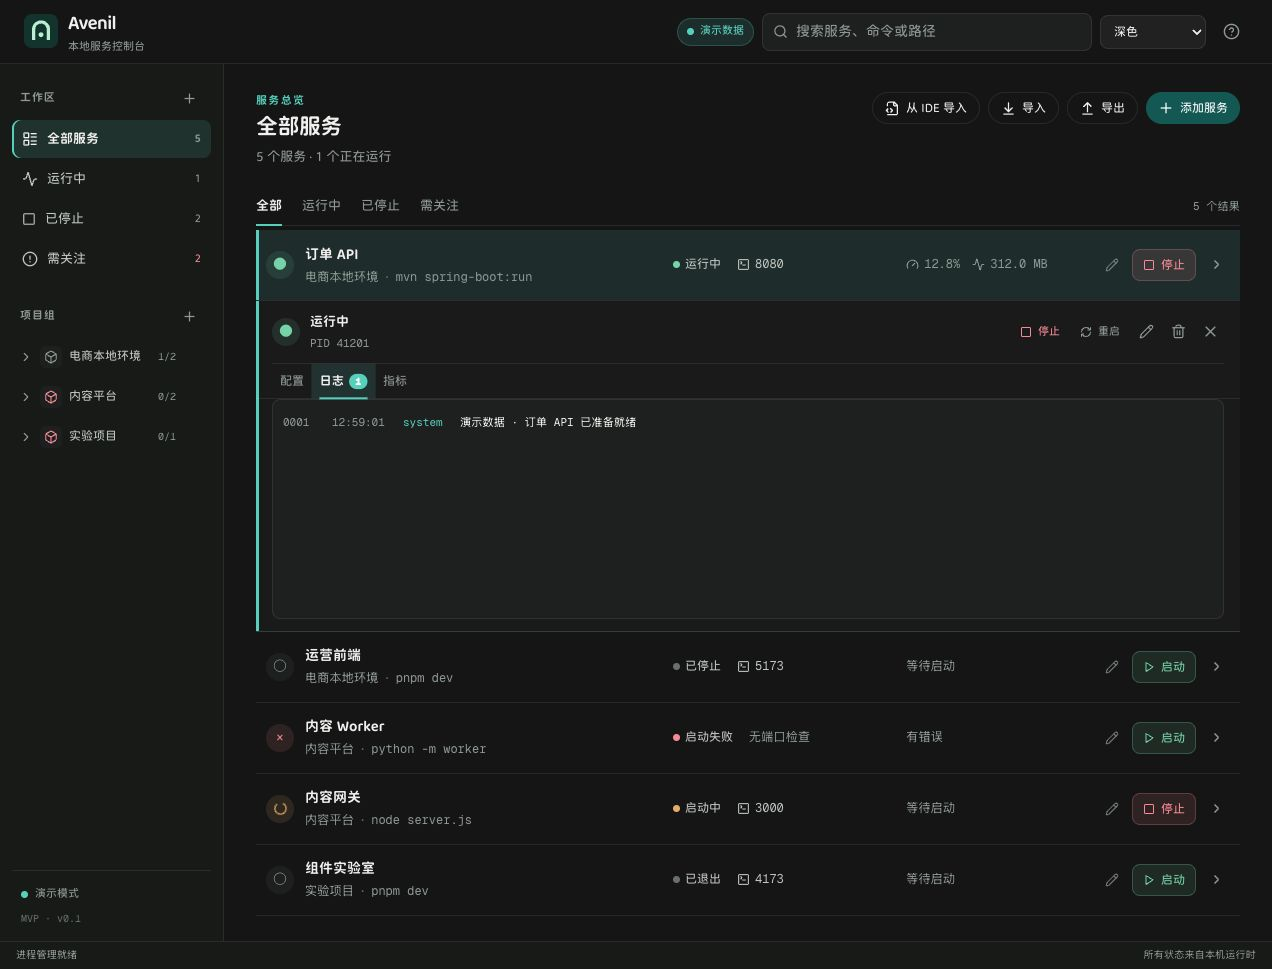
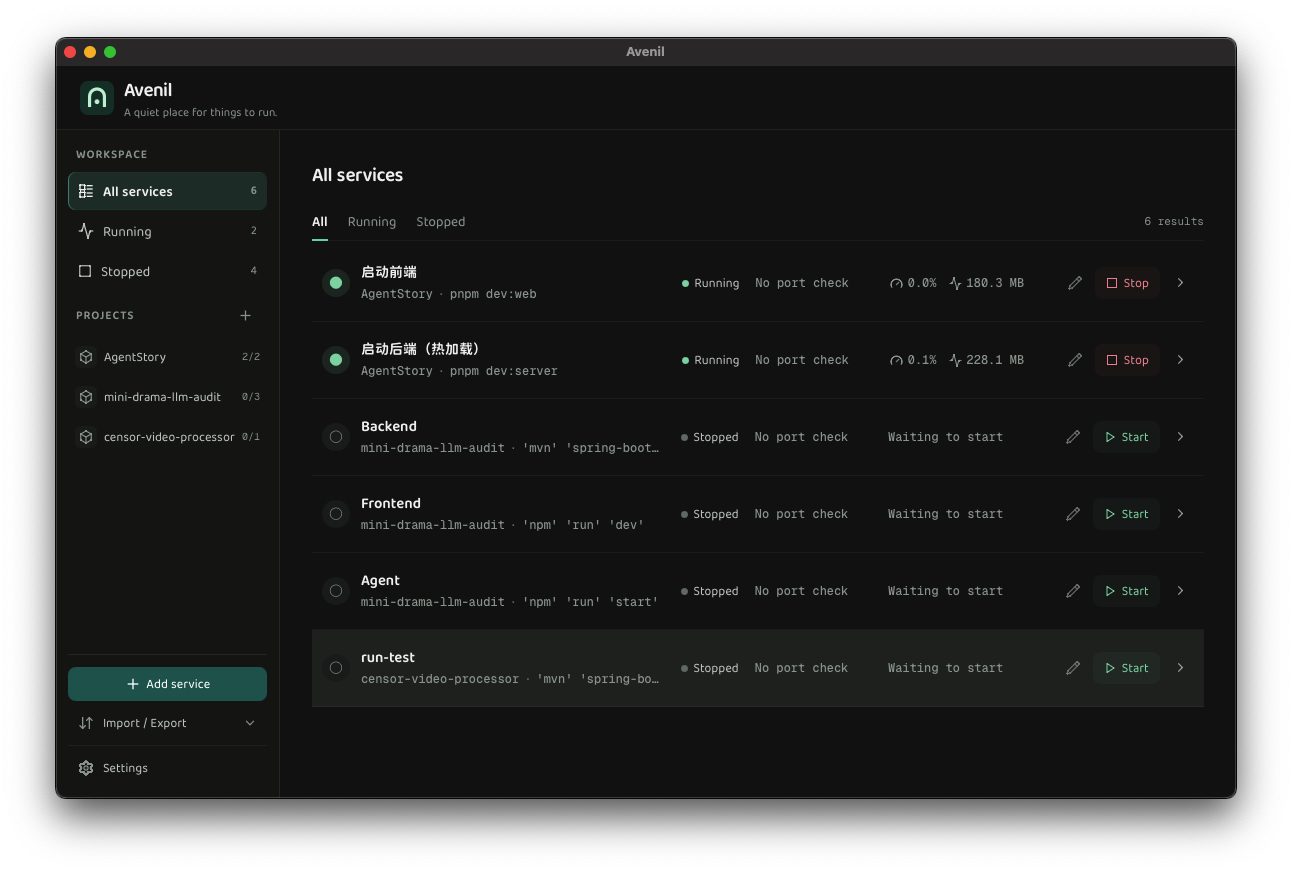
docs(product): clarify local service manager workflow
Clarify Avenil's native macOS local development service manager positioning, supported workflow boundaries, and MIT licensing in the English and Chinese product documentation.\n\nAdd practical guides for managing grouped services, running common Node/Python/Java/Rust commands, and importing VS Code, Cursor, and JetBrains run configurations. Refresh navigation, screenshots, and HTML metadata while leaving application runtime behavior, persistence, and process lifecycle unchanged.\n\nMain chain: README and HTML entry points -> product positioning and navigation -> user guides -> local service setup. No storage, downstream service, or runtime boundary changed.

diff --git a/index.html b/index.html
@@ -5,8 +5,8 @@
     <meta name="viewport" content="width=device-width, initial-scale=1.0" />
     <meta name="theme-color" content="#ffffff" />
     <link rel="icon" type="image/svg+xml" href="/brand/favicon.svg" />
-    <meta name="description" content="Avenil — A quiet place for things to run. Manage local services, logs, and runtime state on macOS." />
-    <title>Avenil · Local Service Console</title>
+    <meta name="description" content="Avenil is a native macOS local development service manager for running, grouping, and monitoring dev servers, logs, ports, and IDE run configurations." />
+    <title>Avenil · Native macOS Local Development Service Manager</title>
     <script>
       (() => {
         try {

diff --git a/README.md b/README.md
@@ -1,10 +1,14 @@
+# Avenil — Native macOS Local Development Service Manager
+
+Avenil is a native macOS app for running and monitoring local development services. Group your dev servers, start and stop them together, inspect logs and resource usage, check local ports, and import run configurations from VS Code, Cursor, and JetBrains.
+
 <p align="center">
-  <img src="docs/assets/banner.svg" alt="Avenil — A quiet place for things to run." width="100%" />
+  <img src="docs/assets/banner.svg" alt="Avenil, a native macOS local development service manager" width="100%" />
 </p>
 
 <p align="center">
-  A native macOS workspace for running local development services.<br />
-  Download it, keep services organized, and see what is running — in one place.
+  A quiet place for things to run.<br />
+  Keep local services organized and see what is running — in one place.
 </p>
 
 <p align="center">
@@ -16,9 +20,9 @@
   <a href="README.zh-CN.md">简体中文</a>
 </p>
 
-<p align="center"><strong>macOS 15+ · Apple Silicon · Early preview</strong></p>
+<p align="center"><strong>macOS 15+ · Apple Silicon · Early preview · MIT License</strong></p>
 
-![Avenil service workspace in light mode, with the log panel expanded](docs/assets/workspace-light.jpg)
+![Avenil service workspace in light mode with grouped local services](docs/assets/workspace-light.jpg)
 
 <p align="center"><sub>Actual application UI with built-in demo data. The current interface is in Simplified Chinese.</sub></p>
 
@@ -27,6 +31,14 @@
 Avenil is available as a ready-to-use macOS DMG. [Download the latest release](https://github.com/stardut/avenil/releases/latest), open it, and drag **Avenil** to **Applications**. The release app runs without Node.js, Rust, or Xcode.
 
 Current preview releases use an ad-hoc signature, so macOS may require you to approve the first launch in **System Settings → Privacy & Security**.
+
+For a guided walkthrough, see [how to manage local development services on macOS](docs/guides/manage-local-development-services-on-macos.md), [how to import IDE run configurations](docs/guides/import-ide-cursor-jetbrains-run-configurations.md), and [examples for common local services](docs/guides/run-common-local-services.md).
+
+## Who Avenil is for
+
+Avenil is for developers who run several foreground services during local development: a frontend, an API, a worker, a local database proxy, or a test server. It gives those commands a small native workspace without requiring a separate terminal window for every service.
+
+If you are looking for a macOS tool to manage multiple local dev servers, monitor their logs and ports, or keep project services together in the menu bar, Avenil is designed for that workflow.
 
 ## Why Avenil
 
@@ -49,7 +61,7 @@ Keep your editor for writing code. Let Avenil handle the everyday work of runnin
 <details>
 <summary>See dark mode</summary>
 
-![Avenil service workspace in dark mode](docs/assets/workspace-dark.jpg)
+![Avenil service workspace in dark mode with grouped local services](docs/assets/workspace-dark.jpg)
 
 </details>
 
@@ -78,7 +90,7 @@ Already have IDE run configurations? Click **从 IDE 导入** (Import from IDE),
 
 See the [usage guide](docs/USAGE.md) for configuration storage, logging, import rules, and troubleshooting.
 
-## Direction
+## Scope and direction
 
 The focus is a dependable, approachable home for local services. These are proposed next milestones, not shipped features or release commitments:
 
@@ -88,7 +100,7 @@ The focus is a dependable, approachable home for local services. These are propo
 - [ ] Better first-run guidance and actionable startup errors.
 - [ ] Broader IDE import coverage, driven by reproducible examples.
 
-The current scope is **local foreground services on macOS**. Remote hosts, container management, debuggers, and dependency orchestration are outside this release.
+The current scope is **local foreground services on macOS**. Avenil is not a remote host manager, container manager, debugger, or dependency orchestrator. Remote hosts, container management, debuggers, and dependency orchestration are outside this release.
 
 ## For contributors
 

diff --git a/docs/guides/manage-local-development-services-on-macos.md b/docs/guides/manage-local-development-services-on-macos.md
@@ -1,0 +1,76 @@
+# Manage Local Development Services on macOS with Avenil
+
+[Back to the README](../../README.md) · [Using Avenil](../USAGE.md)
+
+Avenil is a native macOS local development service manager for developers who run several foreground services at the same time. It keeps frontend servers, APIs, workers, test servers, and other local commands in project groups so you can start, stop, and inspect them from one workspace.
+
+## When Avenil fits
+
+Avenil is a good fit when your daily workflow looks like this:
+
+- A frontend runs with `npm run dev` or `pnpm dev`.
+- An API runs from a different directory.
+- A worker or background-looking process must stay in the foreground.
+- You need to see logs, process state, and local port readiness without switching between several terminal windows.
+
+Avenil manages the process groups it starts. It does not adopt existing processes, replace Docker or a remote host manager, or infer dependency ordering between services.
+
+## Add a project group
+
+1. Open Avenil and choose **Add service** (`添加服务` in the current preview interface).
+2. Give the service a name and select its working directory.
+3. Enter the command that normally runs the service in a terminal.
+4. Optionally configure a local TCP port and a browser URL.
+5. Save the service and choose **Start** (`启动`).
+6. Expand the service to inspect its combined stdout and stderr output.
+
+Group related services together. A group changes how services are organized and operated; each service still keeps its own working directory and command.
+
+## Example local development stack
+
+| Service | Working directory | Command | Optional port |
+| --- | --- | --- | --- |
+| Web | `~/Code/example/web` | `npm run dev` | `3000` |
+| API | `~/Code/example/api` | `npm run dev` | `4000` |
+| Worker | `~/Code/example/worker` | `python3 worker.py` | — |
+
+The port check waits for a TCP listener on `127.0.0.1`. It confirms that something is listening, but it is not an HTTP health check. A service that does not expose a port can still be started and monitored without a readiness check.
+
+## Start, stop, and monitor services
+
+Use individual service actions when you are iterating on one part of a project. Use group actions when you want to start or stop the local stack together. Group actions do not create dependency ordering: if the API must be ready before the frontend starts, configure that workflow explicitly in your commands or start the services in sequence.
+
+While a service is running, Avenil can show:
+
+- Combined standard output and standard error.
+- Process count for the managed process group.
+- CPU and resident memory usage.
+- Optional local TCP readiness state.
+- Bounded in-memory and rotated disk logs.
+
+Closing the window hides Avenil in the macOS menu bar. Choosing Quit from the tray menu asks for confirmation and attempts to stop the services Avenil manages.
+
+## Use foreground commands
+
+Keep configured commands in the foreground. Avoid commands that detach themselves:
+
+```bash
+# Good
+npm run dev
+
+# Avoid
+nohup npm run dev &
+```
+
+Avenil owns the process groups it creates and can stop their child processes. It does not take ownership of an already-running PID or a system daemon managed by `launchctl`.
+
+## Configuration and privacy
+
+Service definitions are saved locally. Environment values are stored in local JSON and are not encrypted at rest. Exports remove environment values while preserving their key names and secret flags, so re-enter local values after importing an export.
+
+For port checks, IDE import behavior, logs, and storage details, see the [complete usage guide](../USAGE.md).
+
+## Related guides
+
+- [Run common Node, Python, Java, and Rust services](run-common-local-services.md)
+- [Import VS Code, Cursor, and JetBrains run configurations](import-ide-cursor-jetbrains-run-configurations.md)

diff --git a/docs/guides/import-ide-cursor-jetbrains-run-configurations.md b/docs/guides/import-ide-cursor-jetbrains-run-configurations.md
@@ -1,0 +1,59 @@
+# Import VS Code, Cursor, and JetBrains Run Configurations
+
+[Back to the README](../../README.md) · [Using Avenil](../USAGE.md)
+
+Avenil can preview supported IDE run configurations and turn them into local development services. This is useful when a project already describes how to start its frontend, API, worker, or test process in VS Code, Cursor, or JetBrains.
+
+Import is preview-first: Avenil shows what it can translate, redacts environment values in the preview, and only adds the selected entries after you confirm them.
+
+## Start an import
+
+1. Open the project root in Avenil.
+2. Choose **Import from IDE** (`从 IDE 导入` in the current preview interface).
+3. Select the project root that contains the configuration files.
+4. Review the detected entries and any warnings.
+5. Select entries marked as ready.
+6. Confirm the import to add a new project group and its services.
+
+Import does not execute commands, overwrite existing services, or silently convert unsupported settings.
+
+## Supported configuration files
+
+Avenil looks for:
+
+- `.vscode/launch.json`, including Cursor projects that use the same format.
+- `.idea/runConfigurations/*.xml`.
+- `.run/*.xml`.
+
+Each configuration file is limited to 2 MiB. The preview classifies candidates as `ready`, `needsInput`, or `unsupported`.
+
+## Supported starting points
+
+| IDE configuration | What Avenil needs |
+| --- | --- |
+| VS Code / Cursor `node-terminal` | An explicit runnable command and working directory. |
+| VS Code / Cursor `node` or `pwa-node` | An entry point and determinable runtime settings, or an `npm run` script. |
+| VS Code Java Spring Boot | `mainClass` and a Maven project declaring `spring-boot-maven-plugin`. |
+| Python launch | An explicit interpreter and entry point. |
+| JetBrains Maven / Gradle | Explicit goals or tasks and a working directory. |
+
+Java Spring Boot entries are imported as `mvn spring-boot:run`. A Java entry without a detectable Spring Boot Maven project may require manual input because the classpath, module path, JRE, or build command cannot be inferred safely.
+
+## What is not silently converted
+
+The following configurations may be marked unsupported or require input:
+
+- Compound launches and attached configurations.
+- Task dependencies.
+- `envFile` and dynamic variables.
+- Unknown extensions.
+- Java configurations without enough project information.
+- Non-empty Java arguments whose boundaries cannot be determined safely.
+
+Environment values are redacted in the preview and preserved in the imported local configuration. The interface masks values marked as secret, but local configuration values are not encrypted at rest.
+
+## After importing
+
+Review the generated working directories and commands before starting the services. Imported entries become ordinary Avenil services, so you can edit their names, ports, URLs, and environment settings within the normal service workflow.
+
+For the broader local service workflow, see [Manage local development services on macOS](manage-local-development-services-on-macos.md).

diff --git a/docs/guides/run-common-local-services.md b/docs/guides/run-common-local-services.md
@@ -1,0 +1,62 @@
+# Run Common Local Development Services on macOS
+
+[Back to the README](../../README.md) · [Using Avenil](../USAGE.md)
+
+Avenil can run any command that stays in the foreground and can be started from a configured working directory. The examples below cover common Node.js, Python, Java, and Rust development services on macOS.
+
+## Common commands
+
+| Stack | Example command | Typical port |
+| --- | --- | ---: |
+| npm / Node.js | `npm run dev` | `3000` or `5173` |
+| pnpm / Node.js | `pnpm dev` | `3000` or `5173` |
+| Python HTTP server | `python3 -m http.server 8000` | `8000` |
+| Python application | `python3 app.py` | Project-specific |
+| Spring Boot / Maven | `mvn spring-boot:run` | `8080` |
+| Rust | `cargo run` | Project-specific |
+
+The command is executed with the configured shell and working directory. The default shell is `/bin/zsh -lc`.
+
+## Configure a service
+
+For each service, provide:
+
+1. A descriptive name, such as `Web`, `API`, or `Worker`.
+2. The project directory in which the command should run.
+3. The same foreground command you would normally use in a terminal.
+4. An optional port for a local TCP readiness check.
+5. An optional URL that Avenil can open in a browser.
+
+The readiness port and browser URL have different purposes. The port checks whether a TCP listener is reachable on `127.0.0.1`; the URL is only used when you ask Avenil to open a web address.
+
+## Example project group
+
+```text
+Project: Storefront
+
+Web     ~/Code/storefront/web     npm run dev                 port 3000
+API     ~/Code/storefront/api     mvn spring-boot:run         port 8080
+Worker  ~/Code/storefront/worker  python3 worker.py           no port
+```
+
+Start services individually while debugging one component, or use the group action to operate on the project as a whole. Group actions do not infer dependency ordering.
+
+## Keep commands in the foreground
+
+Do not detach the command with `nohup`, `&`, or a process manager inside the service command:
+
+```bash
+# Use this
+npm run dev
+
+# Do not use this
+npm run dev &
+```
+
+Avenil manages the process groups it creates, including child processes. Existing processes, system daemons, and services started outside Avenil remain outside its control.
+
+## Environment values
+
+Configured environment values override the environment inherited by the desktop app. Avenil does not load `.env` files automatically. Keep local credentials in environment fields rather than embedding them in command strings, and remember that local environment values are not encrypted at rest.
+
+For IDE-based projects, [import the existing VS Code, Cursor, or JetBrains run configurations](import-ide-cursor-jetbrains-run-configurations.md) instead of recreating each command manually.

diff --git a/CONTRIBUTING.md b/CONTRIBUTING.md
@@ -12,7 +12,7 @@ For a bug, include:
 
 Remove credentials, private paths, and environment values before sharing. IDE import reports are most useful with a minimal sanitized configuration and its expected foreground command.
 
-For a substantial feature or architectural change, describe the user problem and proposed scope before implementation. Current focus: local foreground services on macOS. The [README](README.md#direction) lists proposed next milestones.
+For a substantial feature or architectural change, describe the user problem and proposed scope before implementation. Current focus: local foreground services on macOS. The [README](README.md#scope-and-direction) lists proposed next milestones.
 
 ## Development
 

diff --git a/docs/USAGE.md b/docs/USAGE.md
@@ -2,6 +2,8 @@
 
 [Back to the README](../README.md)
 
+Quick guides: [manage local development services](guides/manage-local-development-services-on-macos.md) · [import IDE run configurations](guides/import-ide-cursor-jetbrains-run-configurations.md) · [run common local services](guides/run-common-local-services.md)
+
 Avenil manages local foreground services on macOS. A service is a working directory, a command, a shell specification, and optional environment, port, and URL settings. Groups organize services without changing their working directories.
 
 ## Commands and process ownership
